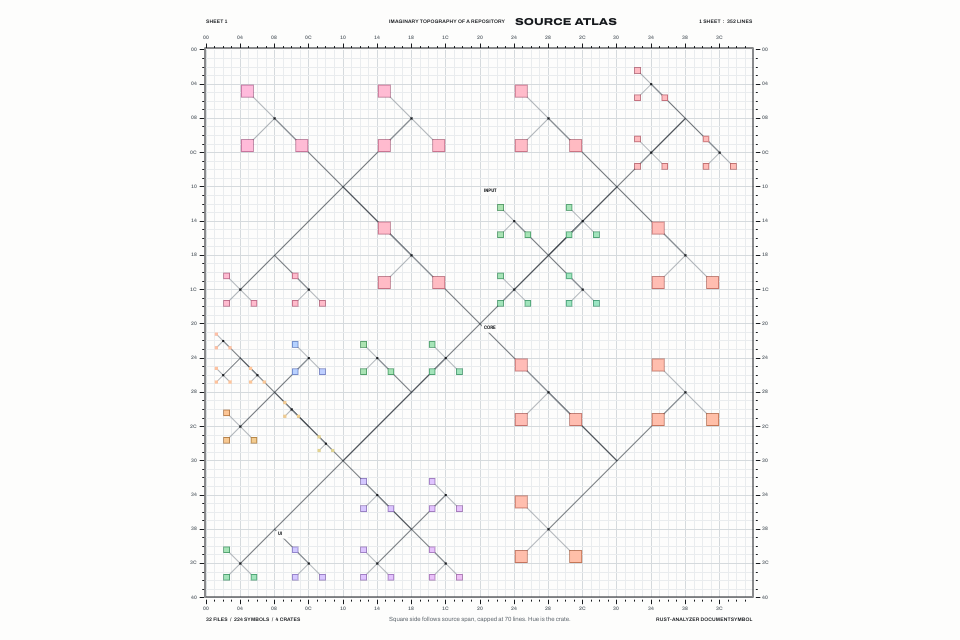
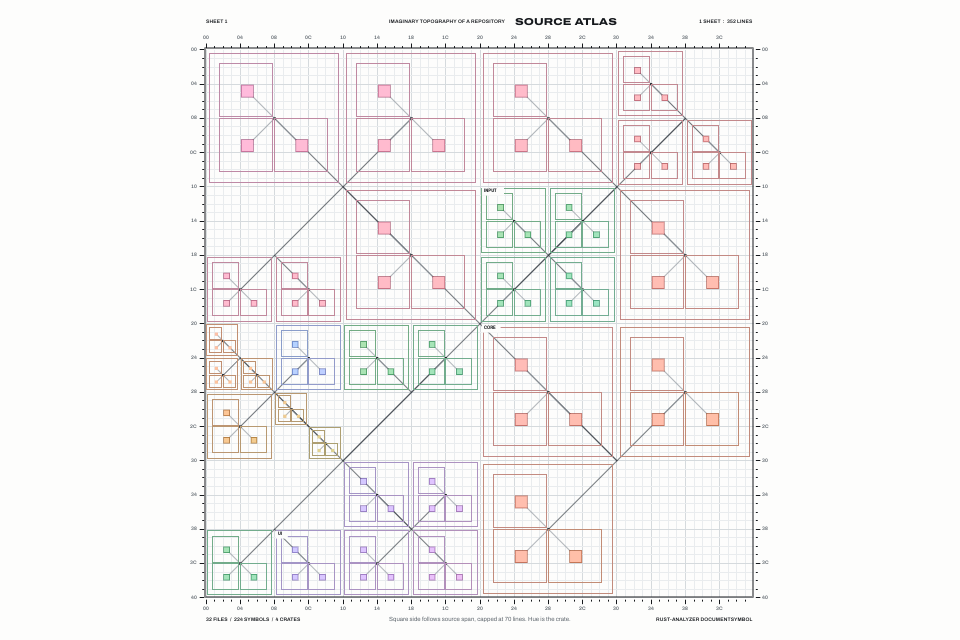
Source Netwerk: scopes are outlined squares, a symbol opens into a lattice of its lines and a line into its words
From 46 points a symbol's square clears into up to 7 by 7 line squares on thin lines, each as large
as its line is long; from 26 points a line carries up to 3 by 3 words. Both are drawn for the leaves
that own a slot of a screen lattice, read from one packed array a symbol, and the zoom limit is 24
times deeper.

diff --git a/fixtures/source_atlas/README.md b/fixtures/source_atlas/README.md
@@ -104,7 +104,16 @@ and chroma `0.07 + 0.15 r` for a reach `r`, at the crate's hue (a golden-angle s
 tests; blue short spans to orange long ones; and the dark plate with its small dots. The grid has 64
 lines across the sheet and four times as many each time the zoom quadruples; the same lines carry on
 as ticks outside the frame. The 16 largest crates are named on the corner of their longest file, and
-a 180-point lattice of slots names files once they are that large. Marks have no alpha, so a fading
+a 180-point lattice of slots names files once they are that large.
+
+The sheet has depth to explore. A scope is an outlined square around its symbols. From 46 points a
+symbol's square clears and opens into the lattice of its lines: up to 7 by 7 squares on thin lines,
+one a source line, as large as that line is long (the `width` profile). From 26 points a line's square
+pales and carries its words: up to 3 by 3, one for every 12 characters, each a stable size of its own.
+Both lattices are drawn for the leaves that own a slot of a screen lattice (56 and 360 points), so
+their cost is bounded by the window. A lattice kernel reads a symbol from one packed array: reading
+its file, first line, span and reach from four arrays beside the profile took the kernel off its fast
+path and tripled the frame. The zoom limit is 24 times the atlas's. Marks have no alpha, so a fading
 mark is mixed into the paper; the art's clip is flat paper drawn over the margins. Nothing is read
 back. `netwerk_overview.png` and `netwerk_zoom.png` are its views.
 
